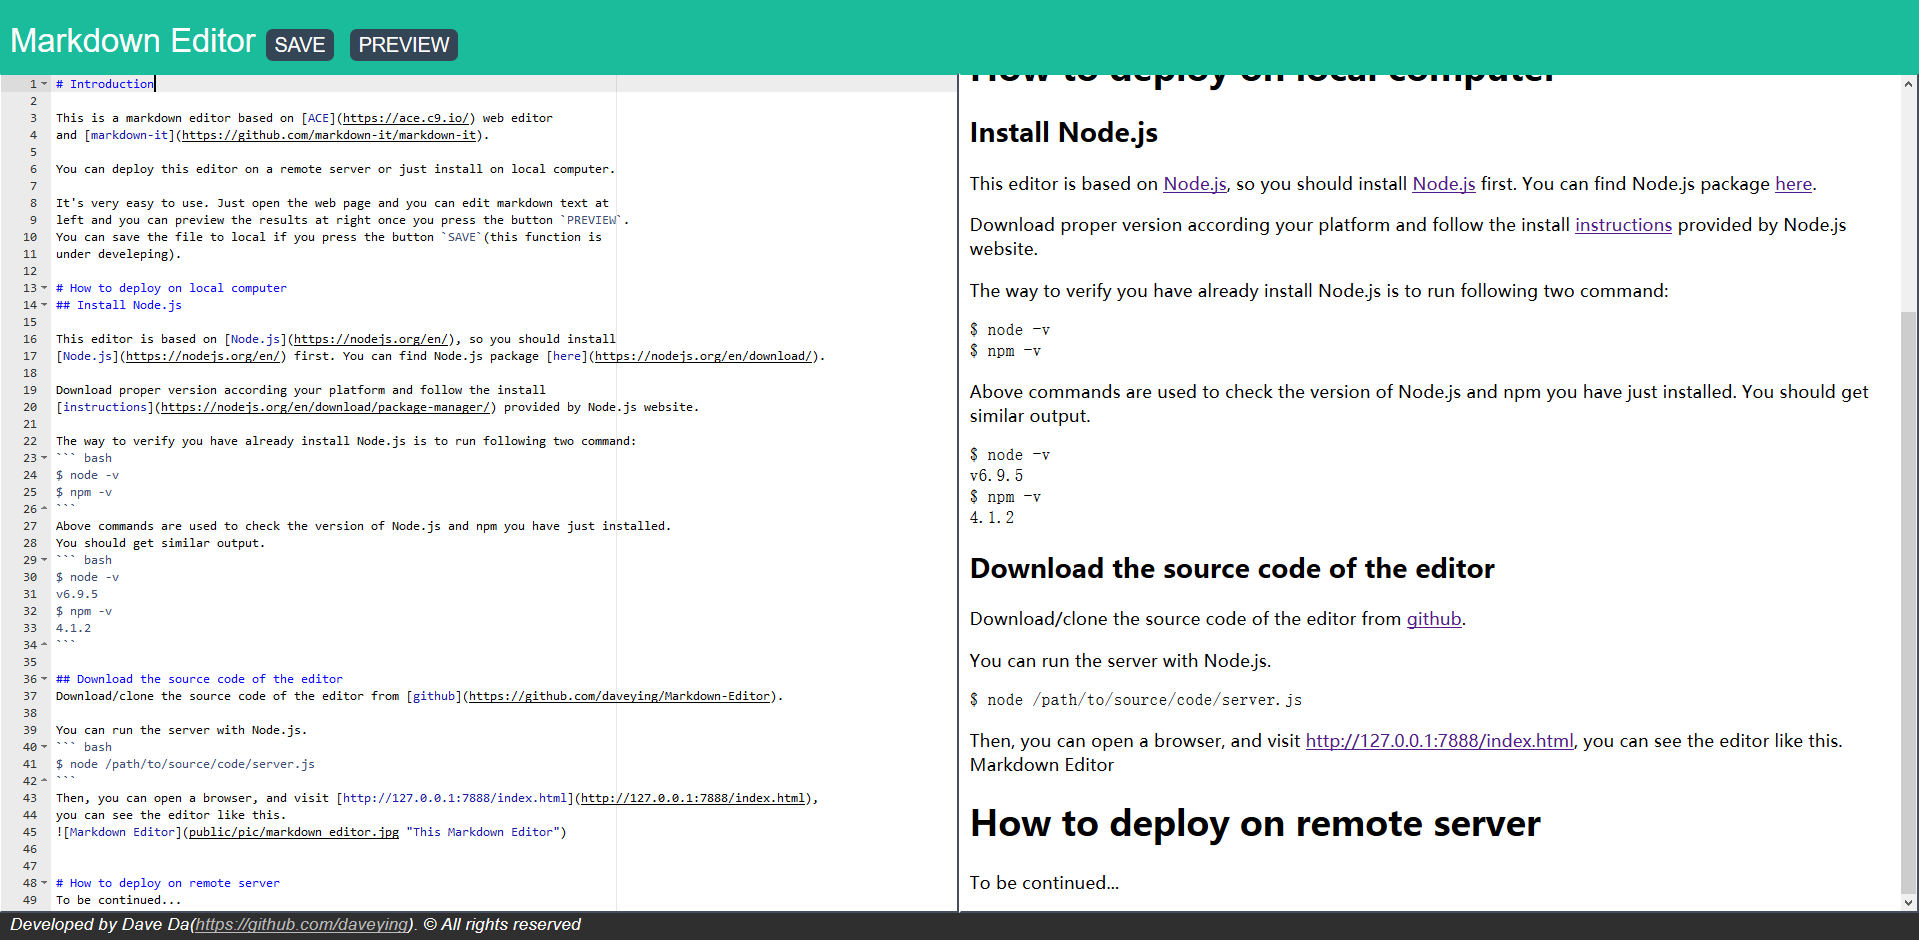
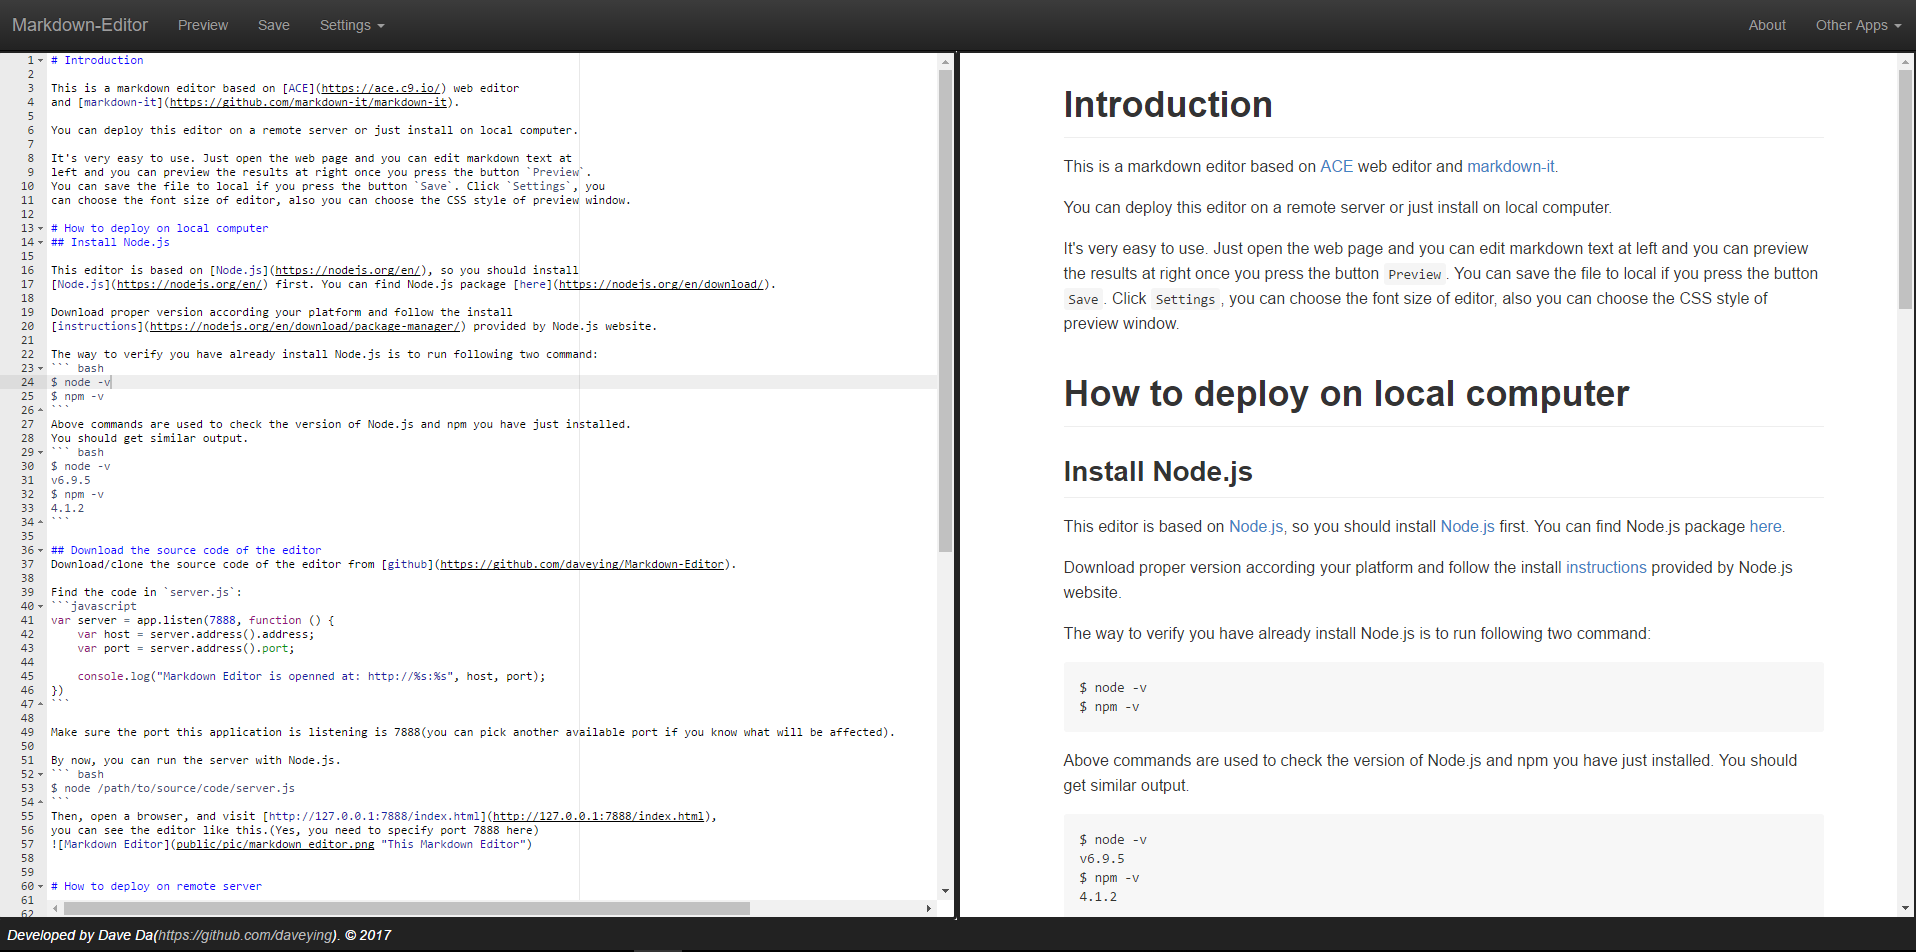
update README.md

Changed region(s): [[0.0, 0.0, 1.0, 1.0]]

diff --git a/README.md b/README.md
@@ -6,8 +6,9 @@ and [markdown-it](https://github.com/markdown-it/markdown-it).
 You can deploy this editor on a remote server or just install on local computer.
 
 It's very easy to use. Just open the web page and you can edit markdown text at 
-left and you can preview the results at right once you press the button `PREVIEW`.
-You can save the file to local if you press the button `SAVE`.
+left and you can preview the results at right once you press the button `Preview`.
+You can save the file to local if you press the button `Save`. Click `Settings`, you 
+can choose the font size of editor, also you can choose the CSS style of preview window.
 
 # How to deploy on local computer
 ## Install Node.js
@@ -90,11 +91,12 @@ By now, you can run the server with Node.js.
 ``` bash
 $ node /path/to/source/code/server.js
 ```
-Then, open a browser, and visit [http://ip_of_your_remote_server](http://ip_of_your_remote_server), you should this editor.
+Then, open a browser, and visit [http://ip_of_your_remote_server](http://ip_of_your_remote_server), you should see this editor.
 
 ### If you have a domain name
-You can add a A record point to ip address of your remote server, and you can using your domain to visit this editor.
+You can add an A record point to ip address of your remote server, and you can using your domain to visit this editor.
 (If the port is not set to 80, you should using a tool called [nginx](https://nginx.org/en/))
 
-You already have a domain name, so you can figure out how to setup this.
+You already have a domain name, so you can figure out how to setup this. Here is the rendering of this web app when visit it via a mobile device.
 
+![Markdown Editor](public/pic/markdown_editor_mobile.png "This Markdown Editor")
